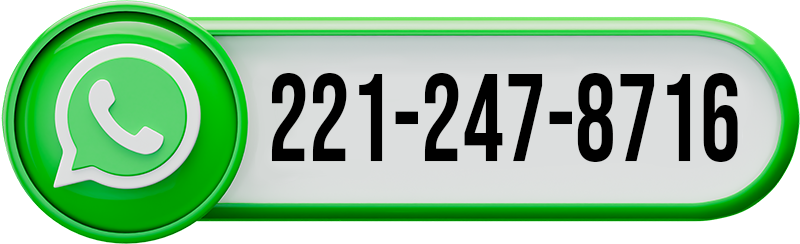
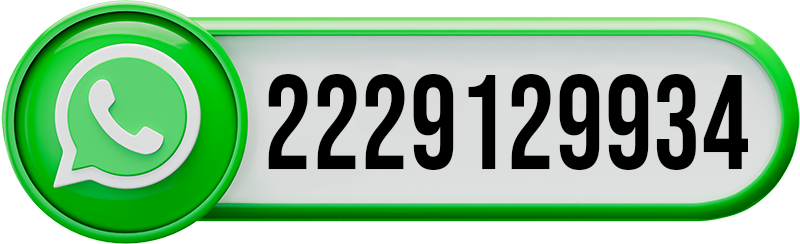
set

Changed region(s): [[0.3125, 0.2869, 0.9375, 0.7172], [0.3438, 0.2869, 0.375, 0.3156]]

diff --git a/index.html b/index.html
@@ -226,7 +226,7 @@
 
                         <h1 class="font_chewy text-center fz-2 fz-lg-1">¿Quieres ver todas nuestras opciones?</h1>
                         <h1 class="font_charm  text-center fz-2 fz-lg-1 mb_30">¡Pide el catálogo completo!</h1>
-                    <a href="https://api.whatsapp.com/send?phone=+5212212478716&text=Hola%20vi%20tu%20trabajo,%20me%20interesan%20las%20invitaciones%20de%20$250" 
+                    <a href="https://api.whatsapp.com/send?phone=+5212229129934&text=Hola%20vi%20tu%20trabajo,%20me%20interesan%20las%20invitaciones%20de%20$250" 
                        target="_blank" 
                        class="col-12 text-center animate__animated animate__pulse animate__infinite">
                         <img src="wat2.png" class="w_100 max_wpx_300">
@@ -329,7 +329,7 @@
         </footer>
 
         <!-- WhatsApp Button - Ahora dentro del contenedor -->
-        <a href="https://api.whatsapp.com/send?phone=+5212212478716&text=Hola,%20vi%20tu%20trabajo%20y%20me%20interesa" class="whatsapp-float" target="_blank">
+        <a href="https://api.whatsapp.com/send?phone=+5212229129934&text=Hola,%20vi%20tu%20trabajo%20y%20me%20interesa" class="whatsapp-float" target="_blank">
             <img src="wat.png" alt="WhatsApp" class="whatsapp-icon">
         </a>
     </div>
